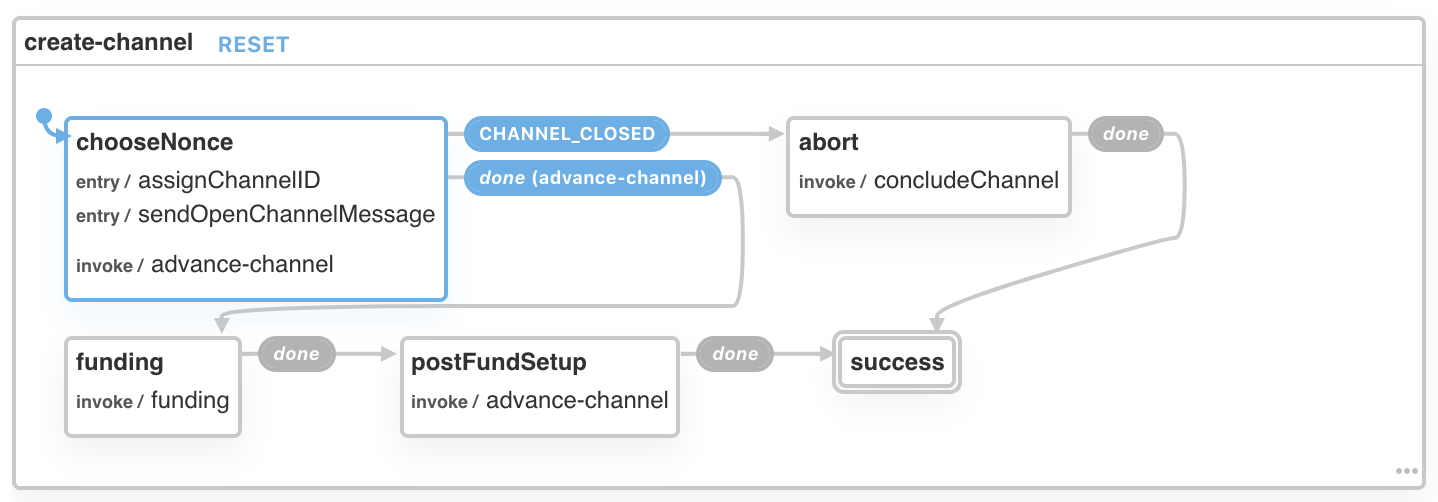
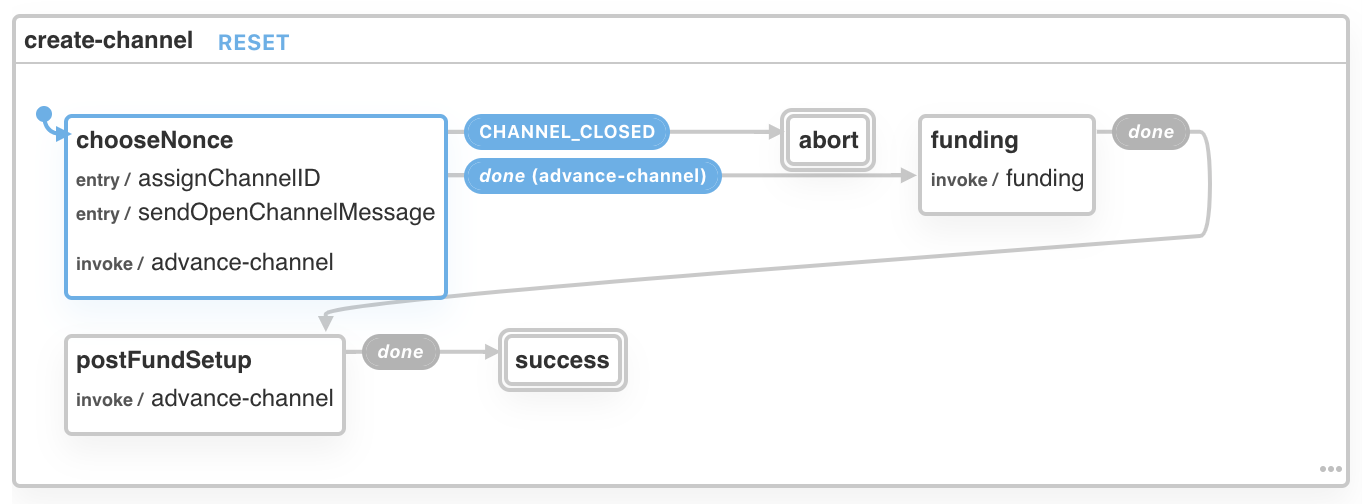
create/join-channel abort on CONCLUDE_CHANNEL

diff --git a/src/protocols/join-channel/protocol.config.js b/src/protocols/join-channel/protocol.config.js
@@ -7,10 +7,7 @@ const config = {
       invoke: { src: 'askClient' },
       on: { CLOSE_CHANNEL: 'abort', JOIN_CHANNEL: 'funding' },
     },
-    abort: {
-      invoke: { src: 'concludeChannel', data: 'passChannelId' },
-      onDone: 'success',
-    },
+    abort: { type: 'final' },
     funding: {
       invoke: { src: 'funding', data: 'passChannelId' },
       onDone: 'postFundSetup',

diff --git a/src/protocols/create-channel/protocol.config.js b/src/protocols/create-channel/protocol.config.js
@@ -11,10 +11,7 @@ const config = {
       },
       on: { CHANNEL_CLOSED: 'abort' },
     },
-    abort: {
-      invoke: { src: 'concludeChannel', data: 'passChannelId' },
-      onDone: 'success',
-    },
+    abort: { type: 'final' },
     funding: {
       invoke: { src: 'funding', data: 'passChannelId' },
       onDone: 'postFundSetup',

diff --git a/src/protocols/create-channel/protocol.ts b/src/protocols/create-channel/protocol.ts
@@ -24,11 +24,7 @@ const chooseNonce = {
 };
 
 const abort = {
-  invoke: {
-    src: 'concludeChannel',
-    data: 'passChannelId',
-  },
-  onDone: 'success',
+  type: 'final',
 };
 
 const funding = {

diff --git a/src/protocols/join-channel/protocol.ts b/src/protocols/join-channel/protocol.ts
@@ -27,11 +27,7 @@ const askClient = {
 };
 
 const abort = {
-  invoke: {
-    src: 'concludeChannel',
-    data: 'passChannelId',
-  },
-  onDone: 'success',
+  type: 'final',
 };
 
 const funding = {
